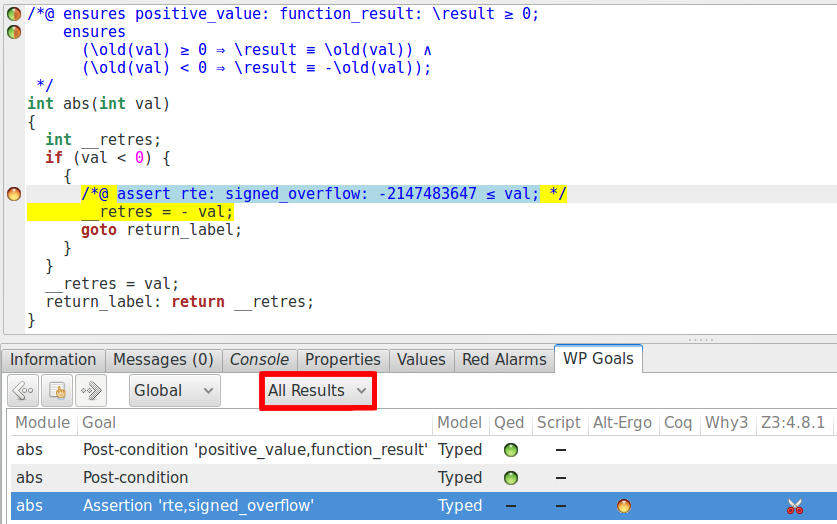
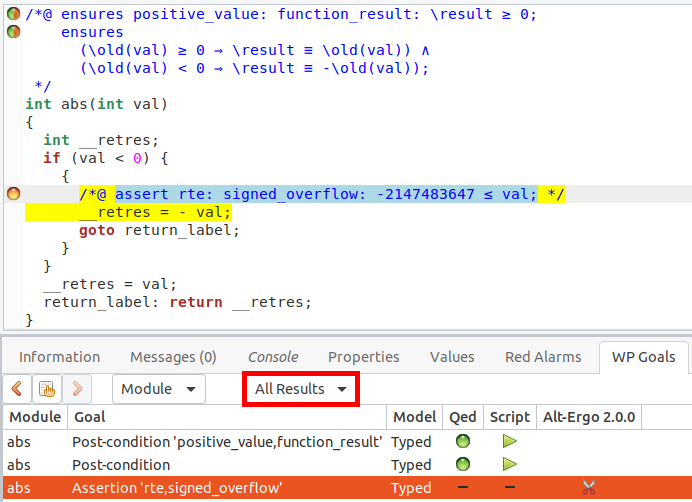
Update related to WP-RTE

Changed region(s): [[0.0, 0.1494, 1.0, 1.0], [0.0, 0.0, 0.698, 0.1494], [0.7283, 0.0, 0.7587, 0.0598]]

diff --git a/english/function-contract/contract.tex b/english/function-contract/contract.tex
@@ -63,7 +63,7 @@ later see how to express precondition).
 \levelThreeTitle{Postcondition}
 
 
-The postcondition of a function is introduced with the clause \CodeInline{ensures}. 
+The postcondition of a function is introduced with the clause \CodeInline{ensures}.
 Let us illustrate its use with the following function
 that returns the absolute value of an input value. One of its postconditions
 is that the result (which is denoted with the keyword
@@ -235,13 +235,21 @@ invalid pointer dereferencing, 0 division, etc).
 
 
 
-To activate these controls, we check the box pointed by the screenshot (in
-the WP panel). We can also ask Frama-C to add them in a function by
+To activate these controls, we must activate this option in the configuration
+of WP. This is done by first clicking on the plugin configuration button:
+
+
+\image{plugin-options}
+
+
+And then adding the option \CodeInline{-wp-rte} in the options related to WP:
+
+
+\image{select-rte}
+
+
+We can also ask WP to add the RTE controls in a function by
 right-clicking on its name and then click ``Insert wp-rte guards''.
-
-
-
-\image{1-abs-3}
 
 
 Finally, we execute the verification again (we can also click on the
@@ -259,7 +267,7 @@ architectures, -\CodeInline{INT\_MIN} ($-2^{31}$) > \CodeInline{INT\_MAX} ($2^{3
 \begin{Information}
 We can notice that the overflow risk
 is real for us, since our computers (for which the
-configuration is detected by Frama-C) use the 
+configuration is detected by Frama-C) use the
 \externalLink{Two's complement}{https://en.wikipedia.org/wiki/Two\%27s_complement}
 implementation of integers, which does not define
 the behavior of overflows.
@@ -339,7 +347,15 @@ through WP.
 
 
 In the list of provers, the first element is Qed. This is not really a prover.
-In fact, if we double-click on the property ``absence of overflow''
+It is a tool by WP to simplify properties before sending them to externel
+provers. Then we find Script, this is way to finish some proofs by hand when
+automatic solvers do not succeed in doing them. Finally, we find Alt-Ergo
+which is one of the solvers we use. Notice that for the RTE property, some
+scissors are indicated: it means that the solver was stopped due to timeout.
+
+
+
+If we double-click on the property ``absence of overflow''
 (highlighted in blue in the last screenshot), we can see the corresponding
 verification condition (if it is not the case, make sure that the value ``Raw
 obligation'' is selected in the blue squared field):
@@ -411,7 +427,7 @@ and specify multiple preconditions:
   requires b < a;
 */
 void foo(int a, int b){
-  
+
 }
 \end{CodeBlock}
 
